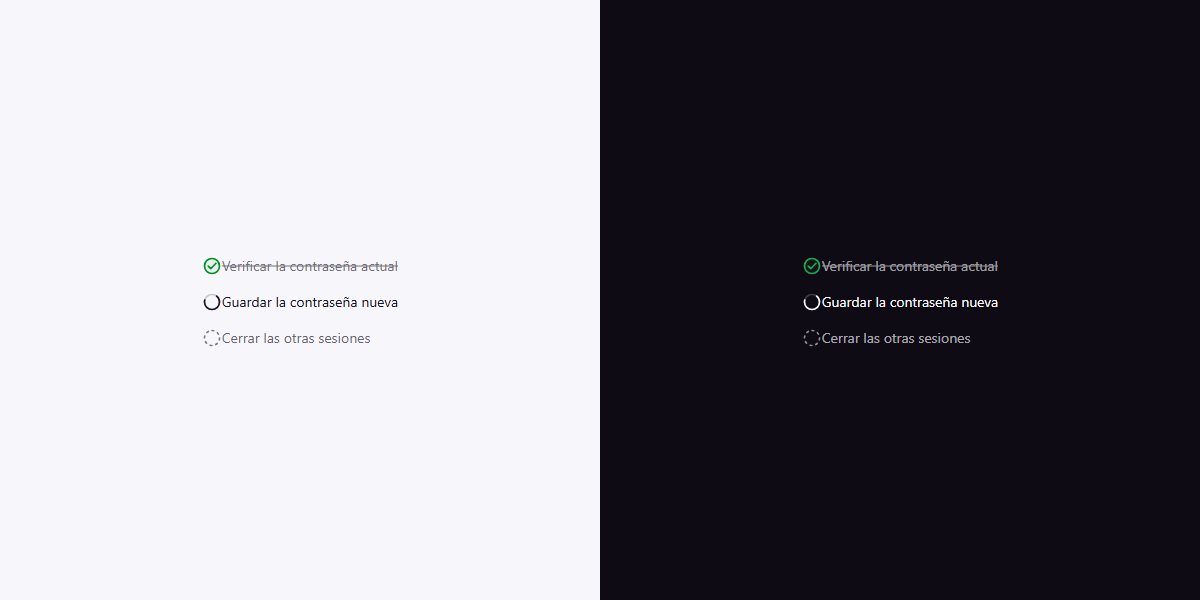
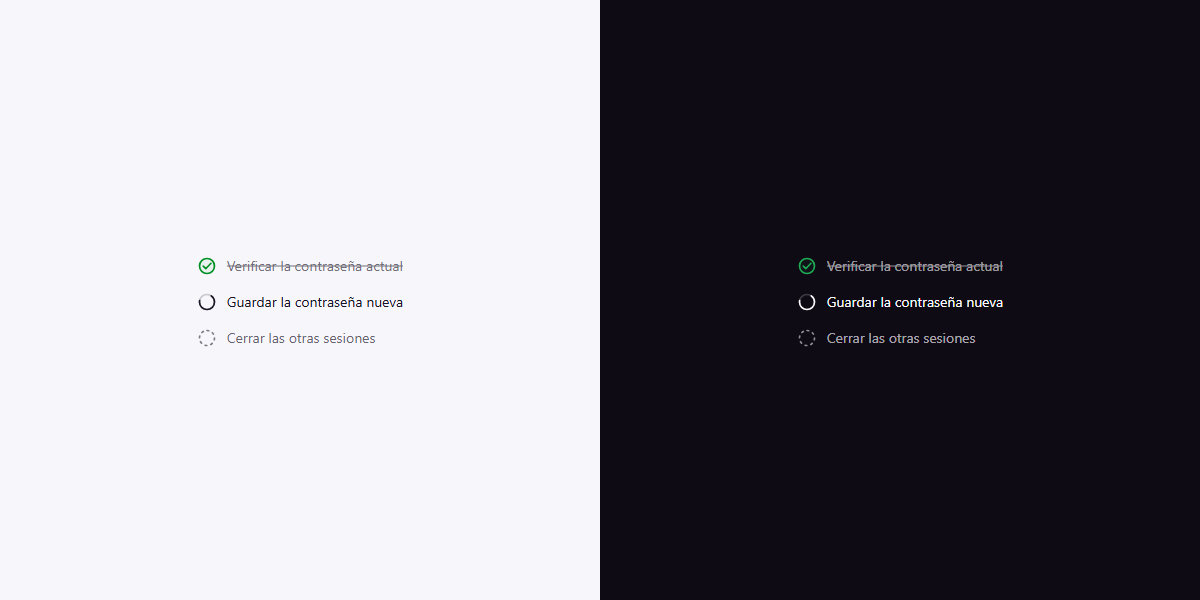
actualiza(status-mark): aire entre el círculo y la etiqueta

diff --git a/components/feedback/status-mark/StatusMark.tsx b/components/feedback/status-mark/StatusMark.tsx
@@ -140,13 +140,14 @@ export function StatusMark({
   const hasLabel = label !== undefined && label !== null
   const draw = `${Math.round(d * 1300)}ms`
   const vars = {
+    gap: size * 0.5,
     '--sm-size': `${size}px`, '--sm-stroke': strokeWidth, '--sm-color': color, '--sm-done': doneColor, '--sm-error': errorColor,
     '--sm-fill': fillOpacity, '--sm-font': `${fontSize}px`, '--sm-draw': draw, ...style,
   } as CSSProperties
 
   return (
     <span
-      className={`group relative inline-flex items-center align-middle leading-none [gap:calc(var(--sm-size)*0.5)]${className ? ` ${className}` : ''}`}
+      className={`group relative inline-flex items-center align-middle leading-none${className ? ` ${className}` : ''}`}
       data-status={status}
       data-indeterminate={indeterminate ? '' : undefined}
       data-strike={strike ? '' : undefined}
